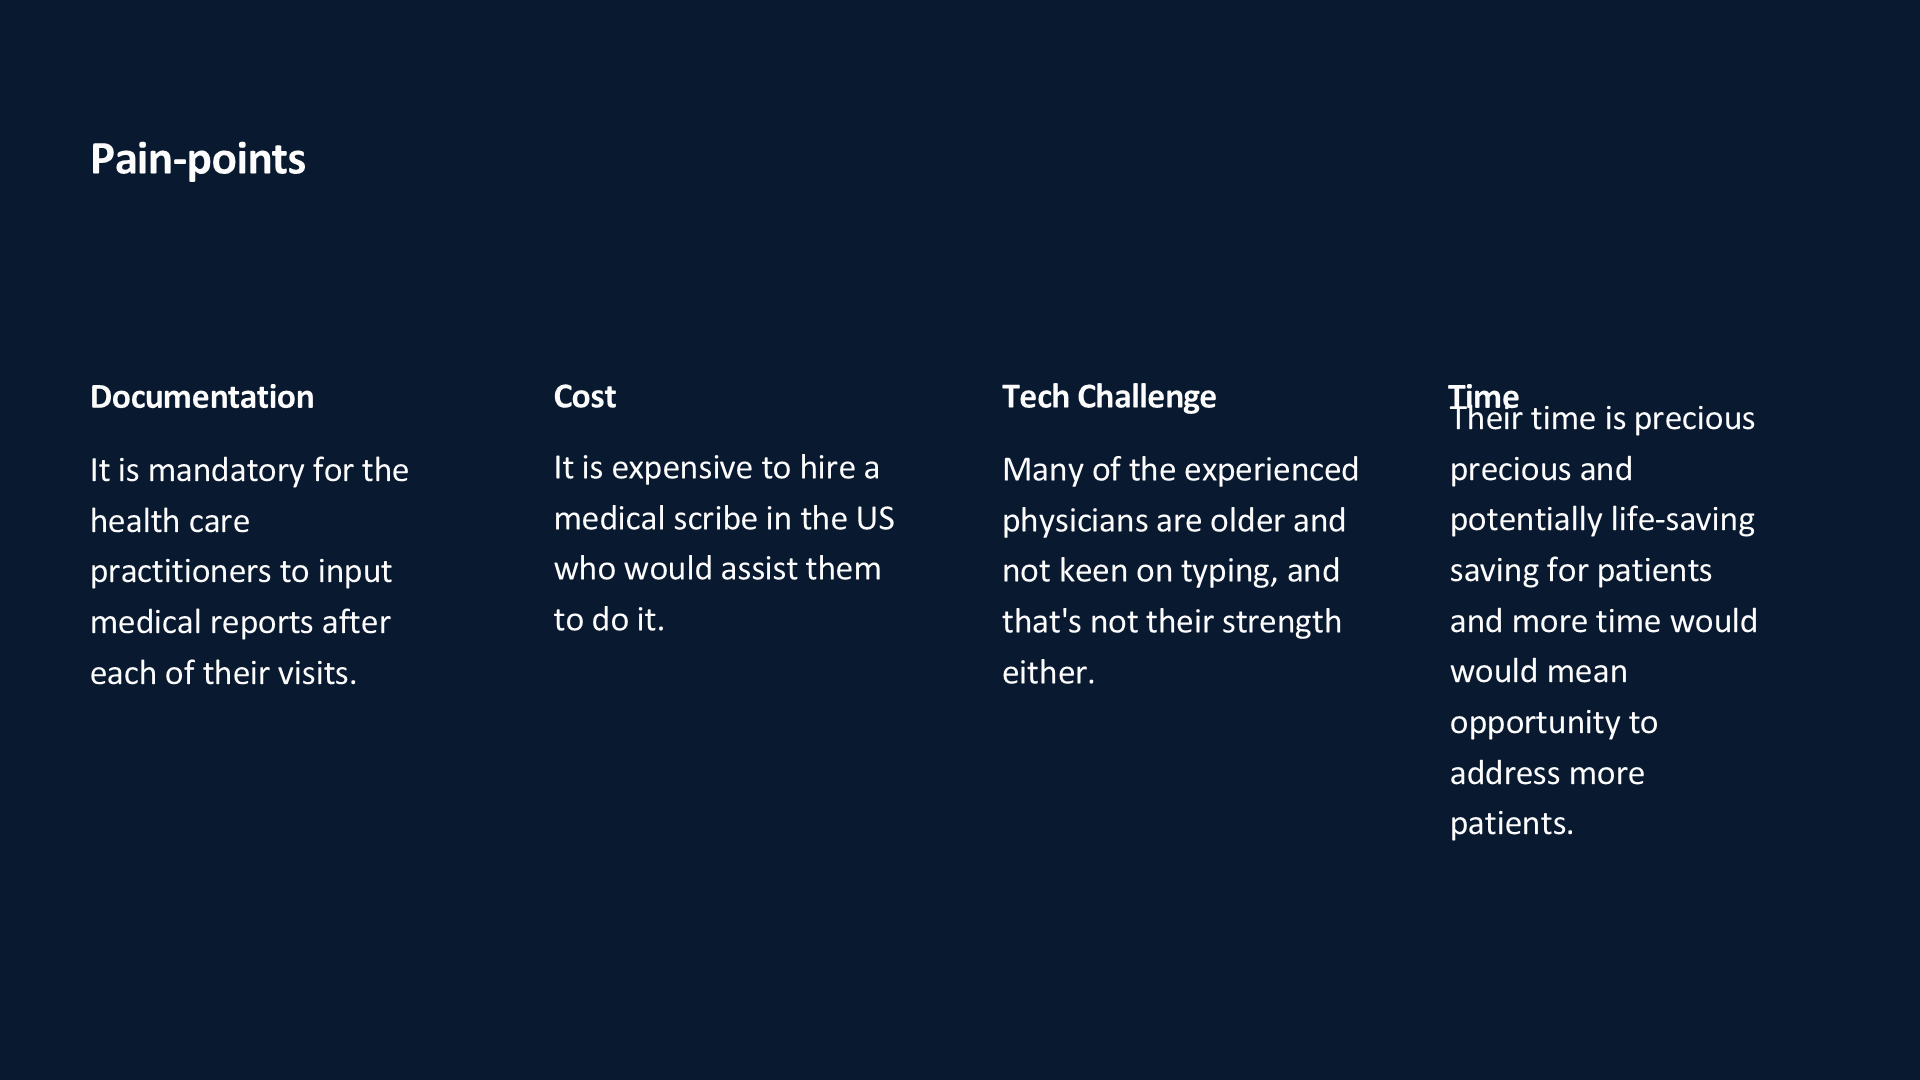
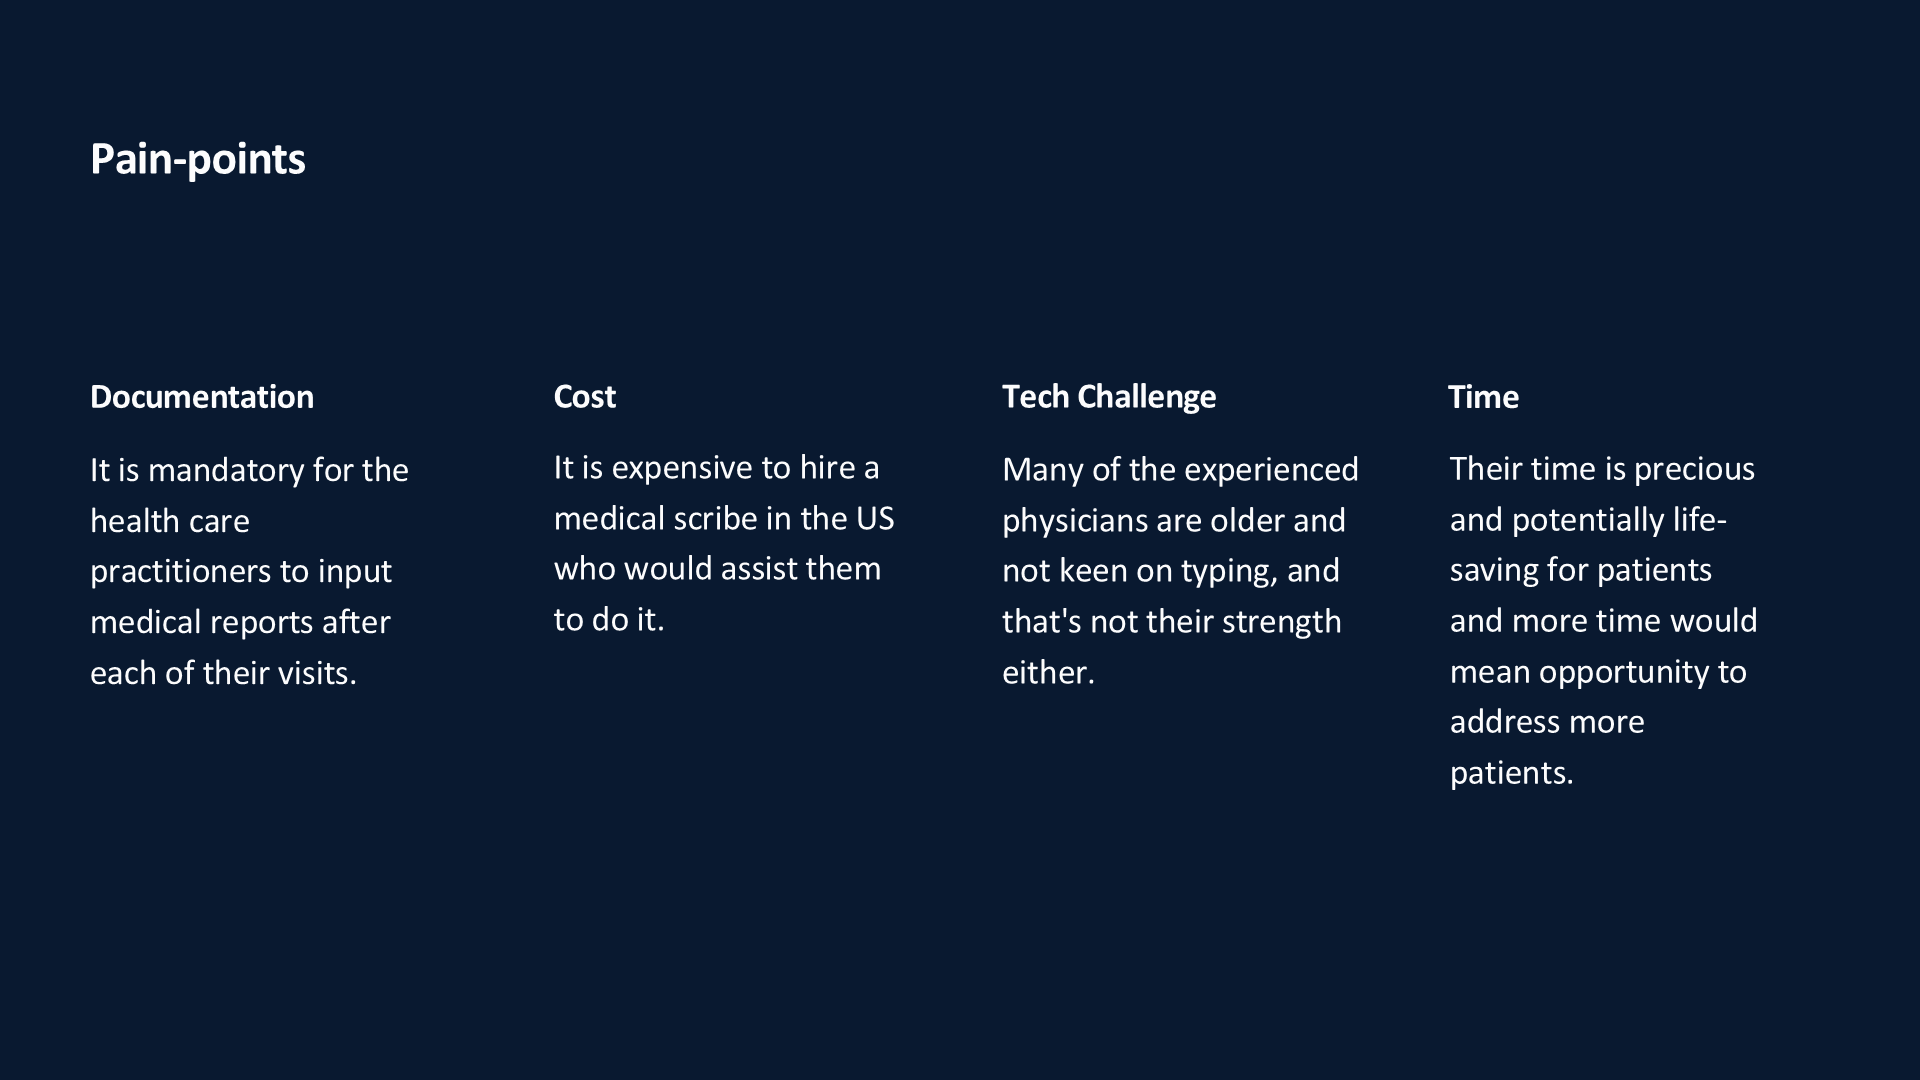
Combine Slide15, Slide16, Slide17 images without gaps

diff --git a/data/portfolio.js b/data/portfolio.js
@@ -220,17 +220,11 @@ export const portfolioItems = [
       },
       {
         title: "",
-        image: "/assets/images/latest-portfolio/Augmedix/Slide15.png",
-        imagePosition: "before"
-      },
-      {
-        title: "",
-        image: "/assets/images/latest-portfolio/Augmedix/Slide16.png",
-        imagePosition: "before"
-      },
-      {
-        title: "",
-        image: "/assets/images/latest-portfolio/Augmedix/Slide17.png",
+        images: [
+          "/assets/images/latest-portfolio/Augmedix/Slide15.png",
+          "/assets/images/latest-portfolio/Augmedix/Slide16.png",
+          "/assets/images/latest-portfolio/Augmedix/Slide17.png"
+        ],
         imagePosition: "before"
       },
       {

diff --git a/styles/scss/custom.scss b/styles/scss/custom.scss
@@ -578,3 +578,27 @@
     }
   }
 }
+
+// Combined images without gaps
+.section-images {
+  display: flex;
+  flex-direction: column;
+  gap: 0;
+  margin: 0;
+  
+  .section-image {
+    margin: 0;
+    padding: 0;
+    line-height: 0;
+    
+    img {
+      display: block;
+      width: 100%;
+      height: auto;
+      margin: 0;
+      padding: 0;
+      border: none;
+      vertical-align: top;
+    }
+  }
+}
